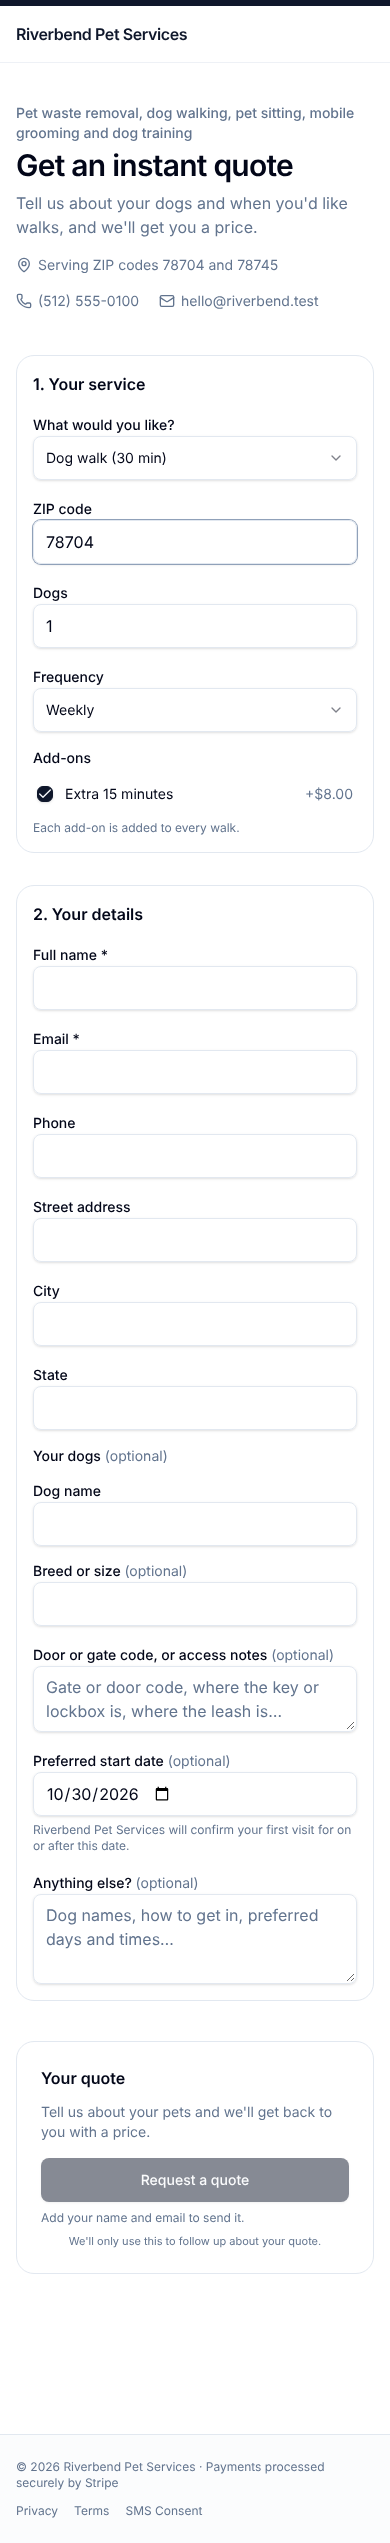
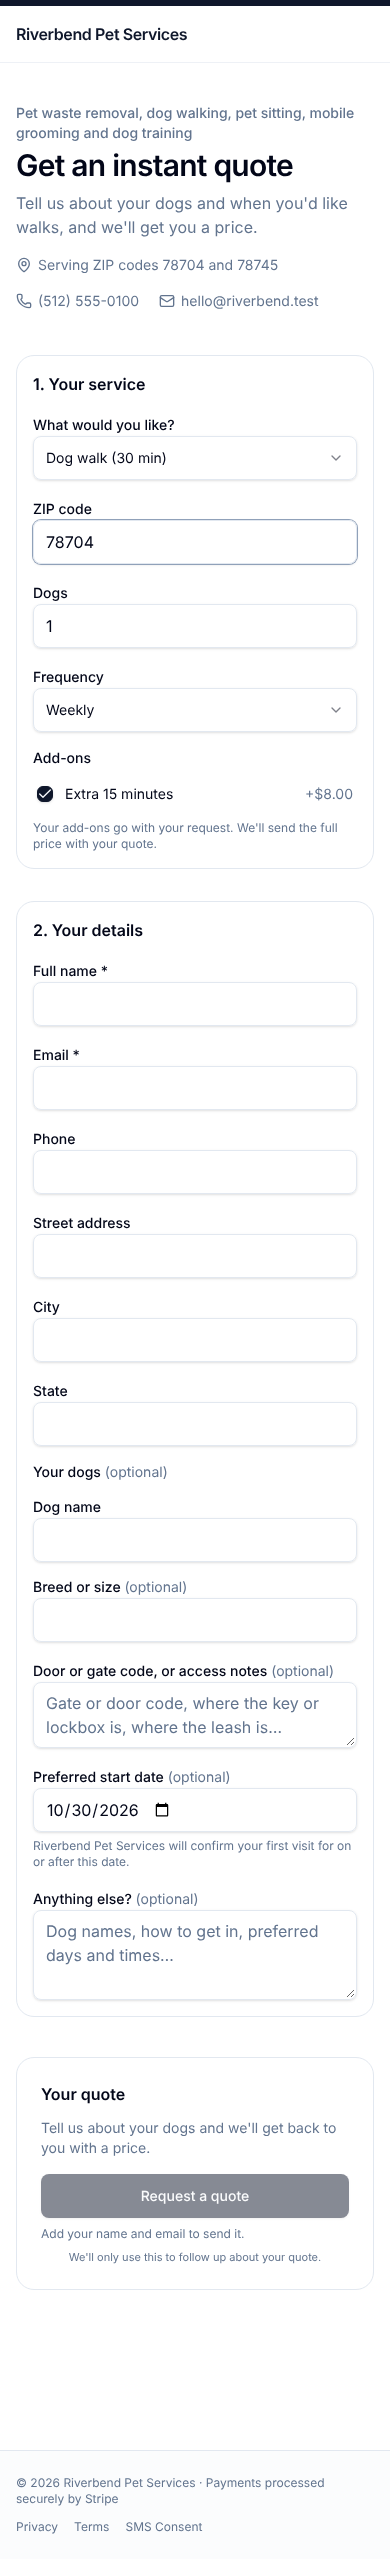
Booking link review fixes: copy nits, revert script, priced walk shots (#560)
From Product's review of #567:
- A walk with no price yet: the add-on hint says the price comes with
  the quote. The request hint names the line's dogs or pets instead of
  "pets", and the no-price-online hint does the same off pet waste.
- A groom's price line reads "Each groom (Monthly)", not "Ongoing".
- A signup's lead names pet sizes as a request's does.
- supabase/rollback/...down.sql: the inverse splice of 20261028120000,
  idempotent. Tested down, down again, and up again locally. The old
  no-groom proof holds after it.
- docs/qa/560: a priced walk with an add-on reaching Start service at
  390 and 1440 ($30 + $8 = $38/walk). The groom and unpriced-walk shots
  are retaken for the new copy.

diff --git a/src/lib/booking-copy.ts b/src/lib/booking-copy.ts
@@ -284,14 +284,32 @@ export const GROOM_COPY = {
  *  still listed, so a visitor can ask for it, and the office sends the
  *  price. */
 export const UNPRICED_COPY = {
-  /** The quote panel, before anything is sent. */
-  panelHint: "Tell us about your pets and we'll get back to you with a price.",
   /** The quote request's button. */
   requestButton: "Request a quote",
 } as const;
 
-/** The add-ons' heading and hint. */
+/** The quote panel's hint when the page is a request with no price on it:
+ *  a service with no price yet, or a business that does not price online.
+ *  A pet-waste page asks about the property, as it always did; any other
+ *  line asks about the dogs or pets it serves (#560). */
+export function requestPanelHint(line: ServiceLine): string {
+  if (line === "pet_waste")
+    return "Tell us about your property and pets and we'll get back to you with a price.";
+  return `Tell us about your ${BOOKING_COPY[line].petLabel.toLowerCase()} and we'll get back to you with a price.`;
+}
+
+/** The price line's label for one visit. A groom is requested, not started,
+ *  so it reads "Each groom" rather than "Ongoing" (#560). */
+export function perVisitLineLabel(line: ServiceLine, requested: boolean): string {
+  if (!requested) return "Ongoing";
+  const v = BOOKING_COPY[line].visit;
+  return `Each ${v}`;
+}
+
+/** The add-ons' heading and hint. With no price yet, the add-ons ride the
+ *  request and the price comes with the quote (#560). */
 export const ADD_ON_COPY = {
   legend: "Add-ons",
   hint: (visit: string) => `Each add-on is added to every ${visit}.`,
+  unpricedHint: "Your add-ons go with your request. We'll send the full price with your quote.",
 } as const;

diff --git a/src/components/signup/SignupFlow.tsx b/src/components/signup/SignupFlow.tsx
@@ -38,6 +38,8 @@ import {
   GROOM_COPY,
   STAY_COPY,
   UNPRICED_COPY,
+  perVisitLineLabel,
+  requestPanelHint,
   bookingCadence,
   bookingLine,
   chargedTodayCovers,
@@ -624,7 +626,9 @@ export function SignupFlow({
         </div>
       ))}
       <div className="flex items-baseline justify-between gap-3">
-        <div className="min-w-0 text-sm">Ongoing ({frequencyLabel(frequency)})</div>
+        <div className="min-w-0 text-sm">
+          {perVisitLineLabel(line, groom)} ({frequencyLabel(frequency)})
+        </div>
         {/* PER VISIT, not per month. `public_quote` returns
             `round(base_visit_cents × frequency_multiplier)`, and
             pricing.ts documents it as "Per-visit price after the
@@ -862,7 +866,9 @@ export function SignupFlow({
                 </label>
               );
             })}
-            <p className="text-xs text-muted-foreground">{ADD_ON_COPY.hint(lineCopy.visit)}</p>
+            <p className="text-xs text-muted-foreground">
+              {request === "unpriced" ? ADD_ON_COPY.unpricedHint : ADD_ON_COPY.hint(lineCopy.visit)}
+            </p>
           </fieldset>
         )}
       </div>
@@ -1145,9 +1151,9 @@ export function SignupFlow({
             ) : branch.reason === "stay-request" ? (
               <>{STAY_COPY.panelHint}</>
             ) : branch.reason === "unpriced-request" ? (
-              <>{UNPRICED_COPY.panelHint}</>
+              <>{requestPanelHint(line)}</>
             ) : (
-              <>Tell us about your property and pets and we'll get back to you with a price.</>
+              <>{requestPanelHint(line)}</>
             )}
           </p>
           {quoteRequestButton}

diff --git a/tests/the-booking-link-sells-every-live-line.test.tsx b/tests/the-booking-link-sells-every-live-line.test.tsx
@@ -34,8 +34,11 @@ import {
   BOOKING_COPY,
   GROOM_COPY,
   STAY_COPY,
+  ADD_ON_COPY,
   UNPRICED_COPY,
   bookingIntro,
+  perVisitLineLabel,
+  requestPanelHint,
 } from "@/lib/booking-copy";
 import {
   addOnsFor,
@@ -354,10 +357,27 @@ describe("each line reaches a quote or a request", () => {
 
   it("draws an unpriced walk as a request, with no instant price", () => {
     const html = render([WALK, LESSON]);
-    expect(html).toContain(UNPRICED_COPY.panelHint);
+    // A walk asks about the dogs, not "pets" or a property.
+    expect(html).toContain(requestPanelHint("dog_walking"));
+    expect(requestPanelHint("dog_walking")).toBe(
+      "Tell us about your dogs and we'll get back to you with a price.",
+    );
+    expect(requestPanelHint("pet_waste")).toMatch(/property and pets/);
+    // A ticked add-on with no price yet says the price comes with the quote.
+    expect(html).toContain(ADD_ON_COPY.unpricedHint);
     expect(html).toContain(UNPRICED_COPY.requestButton);
     expect(html).not.toContain("Get instant price");
     expect(html).toContain("Extra 15 minutes");
+  });
+
+  it("labels a groom's price per groom, not as an ongoing charge", () => {
+    expect(perVisitLineLabel("mobile_grooming", true)).toBe("Each groom");
+    expect(perVisitLineLabel("dog_walking", false)).toBe("Ongoing");
+  });
+
+  it("names the sizes on a signup's lead as well as a request's", () => {
+    const fns = read("src/lib/signup.functions.ts");
+    expect(fns).toContain("extrasNote(q.add_on_names, q.pet_sizes)");
   });
 
   it("draws a lesson with its add-on and an instant price", () => {

diff --git a/src/lib/signup.functions.ts b/src/lib/signup.functions.ts
@@ -41,7 +41,7 @@ import {
   type BookingExtras,
   type ExtraLine,
 } from "@/lib/booking-extras";
-import { PET_SIZES } from "@/lib/groom";
+import { PET_SIZES, type PetSize } from "@/lib/groom";
 import {
   CALM_REFUSAL,
   ELAPSED_FIELD,
@@ -341,12 +341,12 @@ async function quoteWithExtras<
 >(
   q: Q,
   data: { service_id?: string; dog_count: number; add_on_ids?: string[]; pet_sizes?: string[] },
-): Promise<Q & { extra_lines: ExtraLine[]; add_on_names: string[]; pet_sizes: string[] }> {
+): Promise<Q & { extra_lines: ExtraLine[]; add_on_names: string[]; pet_sizes: (PetSize | "")[] }> {
   const plain = {
     ...q,
     extra_lines: [] as ExtraLine[],
     add_on_names: [] as string[],
-    pet_sizes: [] as string[],
+    pet_sizes: [] as (PetSize | "")[],
   };
   if (!data.service_id) return plain;
   const { supabaseAdmin } = await import("@/integrations/supabase/client.server");
@@ -545,7 +545,7 @@ export const createSignupPaymentIntent = createServerFn({ method: "POST" })
     // The add-ons picked, priced from the database and charged with every
     // visit: the plan's per-visit price includes them (#560).
     const q = await quoteWithExtras(q0, data);
-    const note = extrasNote(q.add_on_names, []);
+    const note = extrasNote(q.add_on_names, q.pet_sizes);
     // Everything charged below comes from `q`, which the database priced. See
     // signup-charge.ts: there is no path from the request body to an amount.
     const charge = signupChargeFromQuote(q);
